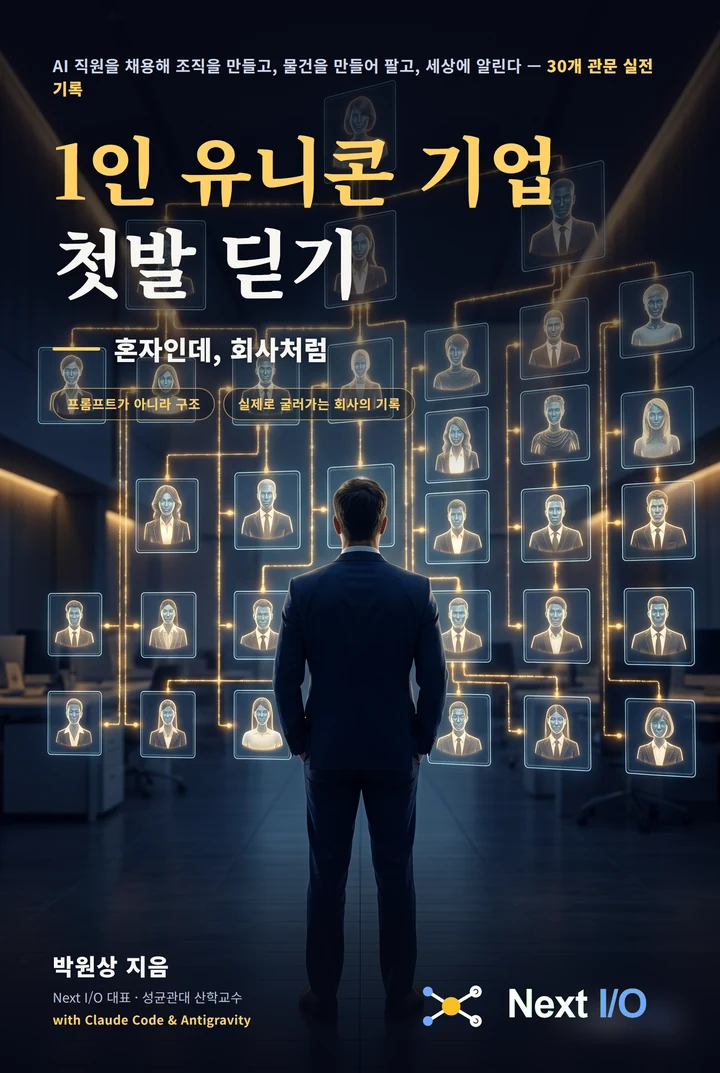
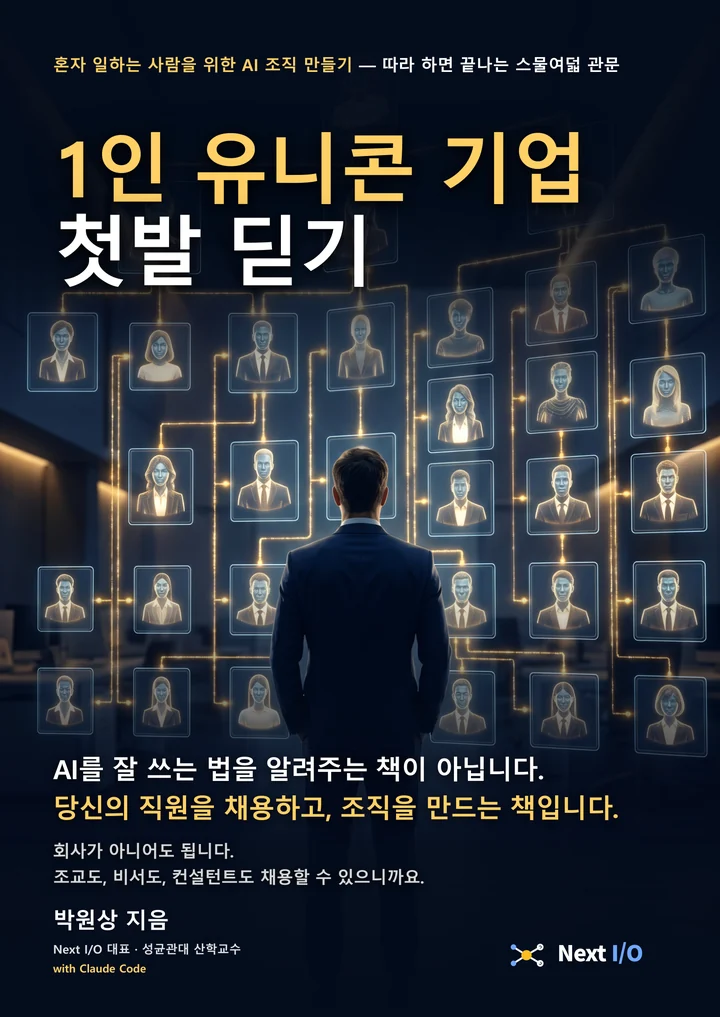
feat(book): 새 앞표지 + 부제 확정본 반영 — 네 곳 일치
단행본팀이 확정한 부제로 통일. 표지·미리보기 본문·서가 기본값·도서 데이터가
토씨까지 같아졌다(가운데는 em 대시). 관문 수는 28로 확정 — 옛 표지의 "30개 관문"은
30챕터 구조 시절 숫자였다.

- cover.webp: 새 앞표지. 원본 표지_전자책.png(1602x2262, 3.7MB)를 720x1017 webp
  83KB로 변환. 원본은 저장소에 넣지 않는다. 이전 표지보다 14KB 작다
- book-preview: 부제만 교체. 출간 알림 신청 폼은 건드리지 않았다(확인함)
- book/index.html: 서가 카드 폴백 기본값도 함께 수정 — JSON을 못 읽을 때
  옛 부제가 뜨는 것을 막는다
- data/books.json: subtitle 교체 + blurb 끝에 슬로건 살림

정가(26,000/23,000)는 넣지 않았다. 발행일·ISBN이 없어 정가만 뜨면 품절로 읽힌다.

Claude-Session: https://claude.ai/code/session_01C6X23HLS6nkcDCsTfiGY2T

diff --git a/book/index.html b/book/index.html
@@ -92,8 +92,8 @@
       <div class="body">
         <span class="status">출간 준비 중</span>
         <h2>1인 유니콘 기업 첫발 딛기</h2>
-        <p class="sub">박원상 지음 · 혼자인데, 회사처럼</p>
-        <p class="blurb">사업자등록증도, 회사 이름도, 무엇을 팔지에 대한 확신도 필요 없습니다. 컴퓨터 한 대와 두 시간, 그리고 첫 관문이면 됩니다.</p>
+        <p class="sub">박원상 지음 · 혼자 일하는 사람을 위한 AI 조직 만들기 — 따라 하면 끝나는 스물여덟 관문</p>
+        <p class="blurb">사업자등록증도, 회사 이름도, 무엇을 팔지에 대한 확신도 필요 없습니다. 컴퓨터 한 대와 두 시간, 그리고 첫 관문이면 됩니다. 마지막 관문을 지나면 혼자인데, 회사처럼 굴러갑니다.</p>
         <p class="go">독자 페이지 열기 →</p>
       </div>
     </a>

diff --git a/book-preview/index.html b/book-preview/index.html
@@ -172,7 +172,7 @@
     <div>
       <span class="kicker">Next I/O 단행본출판팀</span>
       <h1>1인 유니콘 기업 첫발 딛기</h1>
-      <p class="subtitle">AI Agent와 함께 1인 창업을 완성하는 실전 기록</p>
+      <p class="subtitle">혼자 일하는 사람을 위한 AI 조직 만들기 — 따라 하면 끝나는 스물여덟 관문</p>
       <p class="byline">박원상 지음 · Next I/O 대표 · 성균관대학교 산학교수</p>
     </div>
     <p class="pitch">혼자 일하는 사람이 회사 하나가 하는 일을 해내게 만드는 법. AI를 도구가 아니라 <strong>직원</strong>으로 채용해, 열 개의 관문을 지나며 실제로 굴러가는 회사를 만듭니다.</p>
